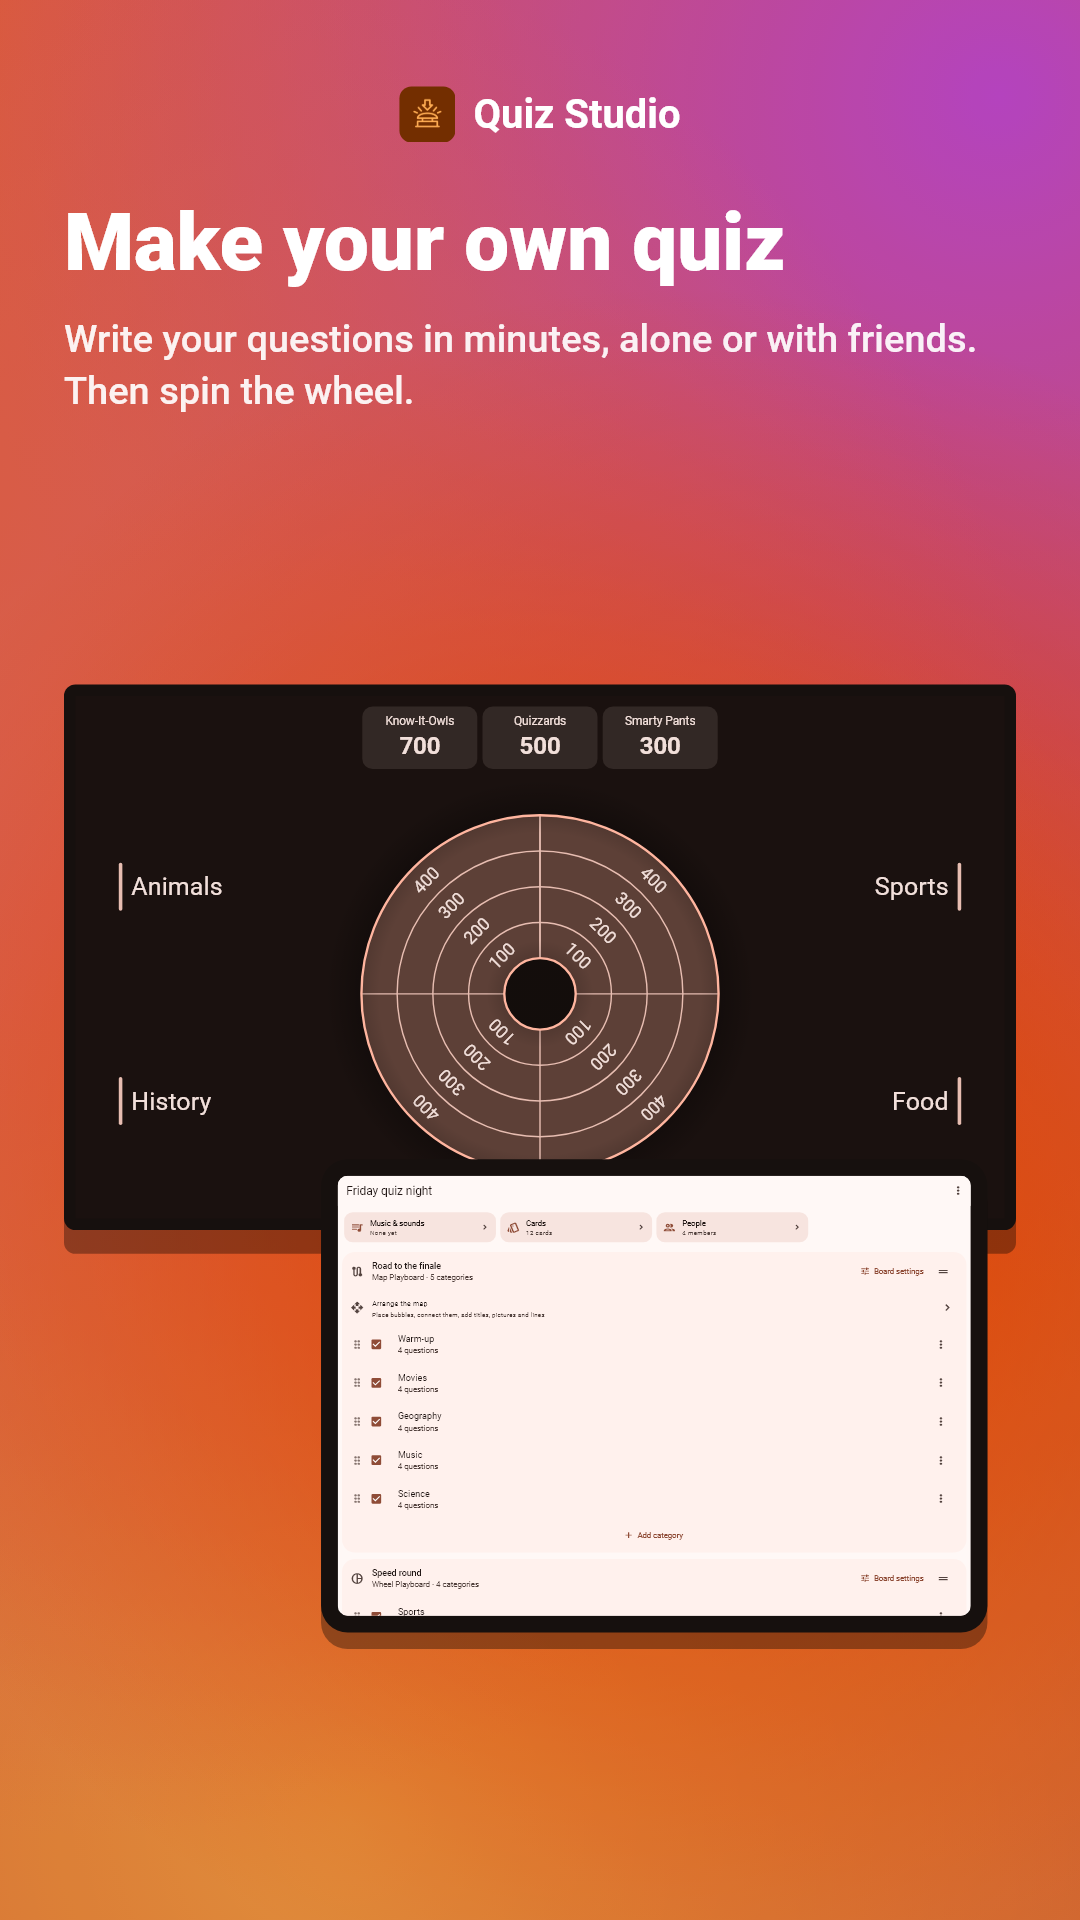
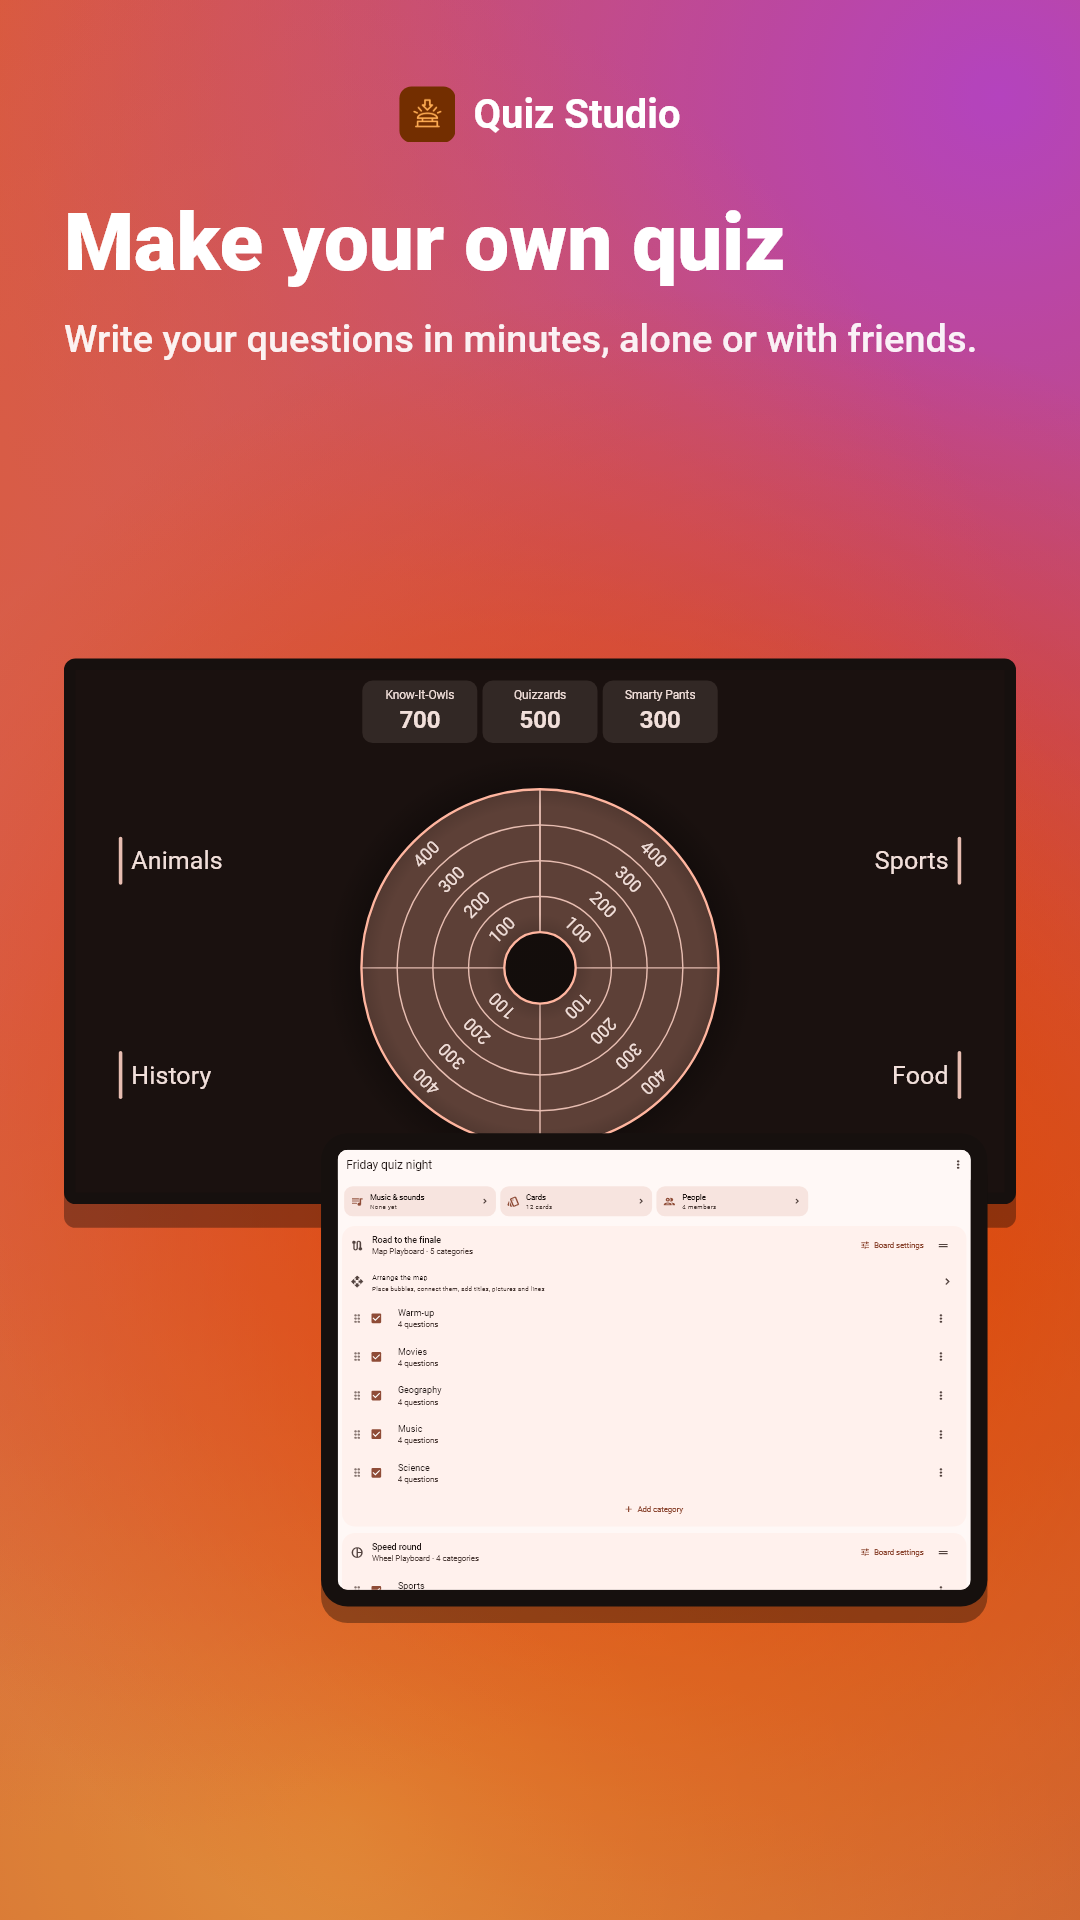
No game show brand names: Feud is shown as Top answers, Connections as Word groups
Stored type ids stay feud and connections, so existing games keep working.

diff --git a/lib/features/assistant/game_tools.dart b/lib/features/assistant/game_tools.dart
@@ -60,8 +60,8 @@ final Map<String, dynamic> _questionFields = {
     'type': 'string',
     'enum': ['free', 'abcd', 'progressingReveal', 'feud', 'connections'],
     'description': 'free: plain question. abcd: four answer options. progressingReveal: hints revealed one by one. '
-        'feud: Family Feud style list of answers, each worth a share of the points. '
-        'connections: like the NYT puzzle, sixteen words in four groups of four, solved by every team on its own '
+        'feud: a survey, the most popular answers, each worth a share of the points. '
+        'connections: sixteen words in four groups of four, solved by every team on its own '
         'device; each group found is worth a quarter of pointsPlus.',
   },
   'question': {'type': 'string', 'description': 'The question as shown to the audience.'},
@@ -312,7 +312,7 @@ Map<String, dynamic> questionDataFromArgs(Map<String, dynamic> args, {required b
     if (companion is! Map) throw const ToolError('"companion" must be an object.');
     final spec = CompanionSpec.fromMap(companion);
     if (spec == null || spec.kind == CompanionKind.connections) {
-      throw const ToolError('"companion" needs a known "kind"; for Connections use the question type instead.');
+      throw const ToolError('"companion" needs a known "kind"; for word groups use the connections question type instead.');
     }
     if ((spec.kind == CompanionKind.order || spec.kind == CompanionKind.match) && spec.options.length < 2) {
       throw const ToolError('This companion screen needs at least two "options".');

diff --git a/lib/features/games/widgets/question_type_editors.dart b/lib/features/games/widgets/question_type_editors.dart
@@ -12,7 +12,7 @@ String questionTypeExplanation(QuestionType type) => switch (type) {
         "The most basic question: no answer options and nothing to reveal. Buzzers can be disabled, e.g. for estimation questions.",
       QuestionType.abcd => "Shows right and wrong answer suggestions, which the gamemaster reveals one by one.",
       QuestionType.progressingReveal => "The gamemaster reveals more information piece by piece.",
-      QuestionType.feud => "Inspired by Family Feud: a list of answers, each worth a share of the points.",
+      QuestionType.feud => "A survey: teams guess the most popular answers, each worth a share of the points.",
       QuestionType.connections =>
         "Sixteen words in four groups of four. Every team solves it on its own device; each group found is worth a quarter of the points.",
       QuestionType.rapidFire =>

diff --git a/tool/store_screenshots_test.dart b/tool/store_screenshots_test.dart
@@ -287,7 +287,7 @@ final _scenes = <String, Scene>{
     final buzzer = _host(const [OpenQuestion(QuestionRef('music', 'q2'))]);
     return _pair(wide, _presenter(_host(_feud)), _phone, _player(buzzer, 'pants'), width: 340, drop: 0.92);
   }),
-  'editor': Scene("Make your own quiz", "Write your questions in minutes, alone or with friends. Then spin the wheel.", (tester, wide) {
+  'editor': Scene("Make your own quiz", "Write your questions in minutes, alone or with friends.", (tester, wide) {
     return _pair(wide, _presenter(_host(const [SelectGroup('speed')])), _tabletWide, _editor(), width: 700, drop: 0.86);
   }),
 };

diff --git a/lib/game/content.dart b/lib/game/content.dart
@@ -238,8 +238,8 @@ enum QuestionType {
   free("Free Question"),
   abcd("ABCD"),
   progressingReveal("Progressing Reveal"),
-  feud("Feud"),
-  connections("Connections"),
+  feud("Top answers"),
+  connections("Word groups"),
   rapidFire("Fragenhagel"),
   matching("Matching"),
   unsupported("Unsupported");

diff --git a/lib/features/games/widgets/sounds_dialog.dart b/lib/features/games/widgets/sounds_dialog.dart
@@ -20,7 +20,7 @@ const Map<String, String> _effectLabels = {
   effectNextItem: "Next Fragenhagel item",
   effectCountdown: "Last 10 seconds",
   effectTimesUp: "Time's up",
-  effectSteal: "Feud steal",
+  effectSteal: "Steal",
   effectFanfare: "Fully solved",
 };
 

diff --git a/lib/game/companion.dart b/lib/game/companion.dart
@@ -13,7 +13,7 @@ enum CompanionKind {
   choice("Pick one"),
   order("Put in order"),
   match("Match pairs"),
-  connections("Connections");
+  connections("Word groups");
 
   const CompanionKind(this.uiString);
 

diff --git a/assets/sounds/README.md b/assets/sounds/README.md
@@ -22,13 +22,13 @@ moment (any name), get a line in `CREDITS.md`, and an entry in
 |---|---|---|
 | `effects/right_answer/` | a team answers right | Right answer (Nikita Zaloga) |
 | `effects/wrong_answer/` | a team answers wrong | Bwomp |
-| `effects/reveal/` | a reveal step, Feud answer, Connections group | Pluck |
+| `effects/reveal/` | a reveal step, a top answer, a word group | Pluck |
 | `effects/question_open/` | a question opens | Brass stab |
 | `effects/lock_in/` | a team locks its answer in | Pop |
 | `effects/next_item/` | the next Fragenhagel item | Woodblock |
 | `effects/countdown/` | the last 10 seconds of a timer of 20 s or more | Ticking clock |
 | `effects/times_up/` | a timer runs out | Game-show buzzer |
-| `effects/steal/` | Feud: the third strike | Riser |
+| `effects/steal/` | Top answers: the third strike | Riser |
 | `effects/fanfare/` | a question fully solved | Fanfare (Nikita Zaloga) |
 | `effects/applause/`, `drumroll/`, `joke/`, `announcer/` | by hand, from the Effects sheet | |
 | `buzzers/` | a team's buzzer, chosen on the Buzzers page: Buzzer, Power, Light, Soft | Buzzer |
